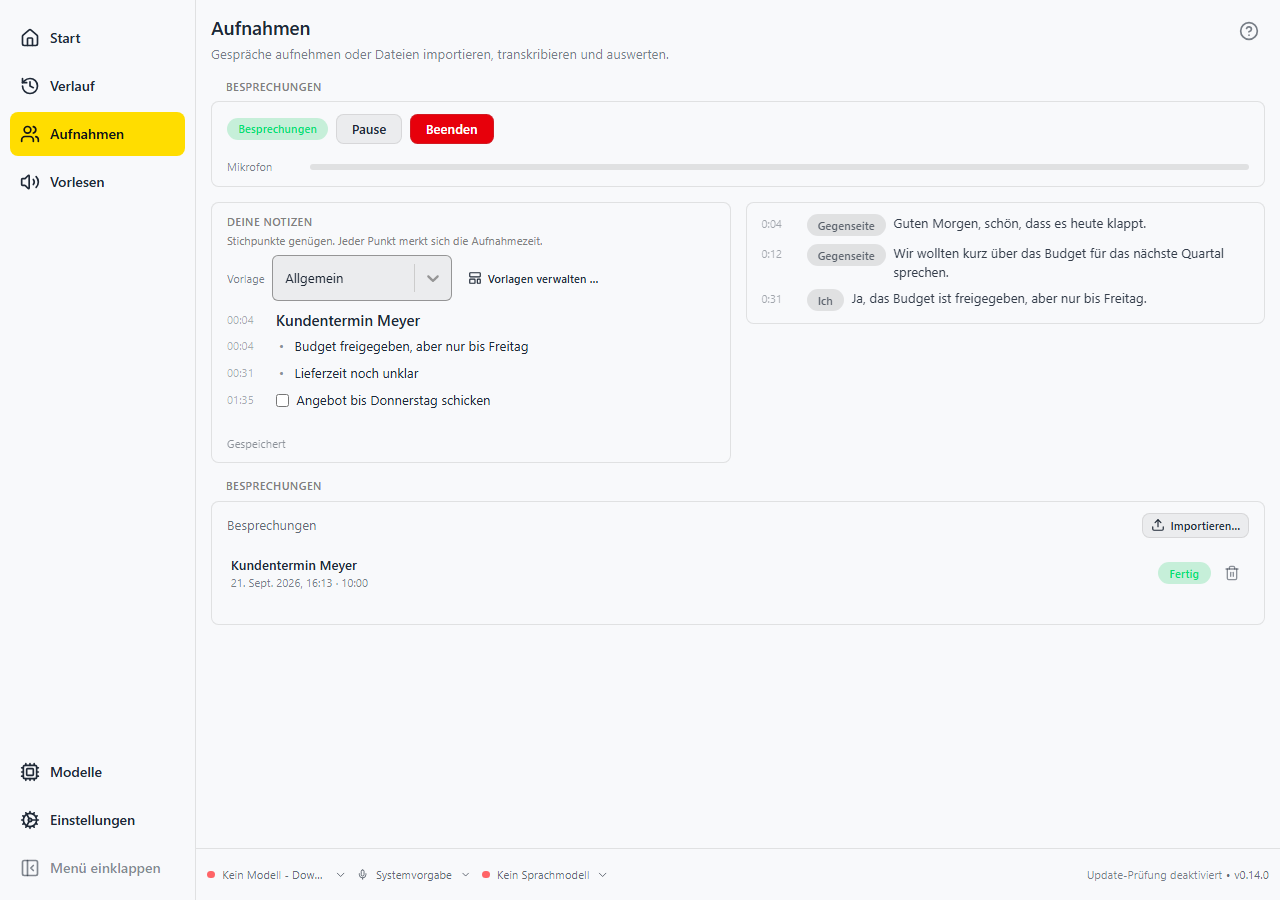
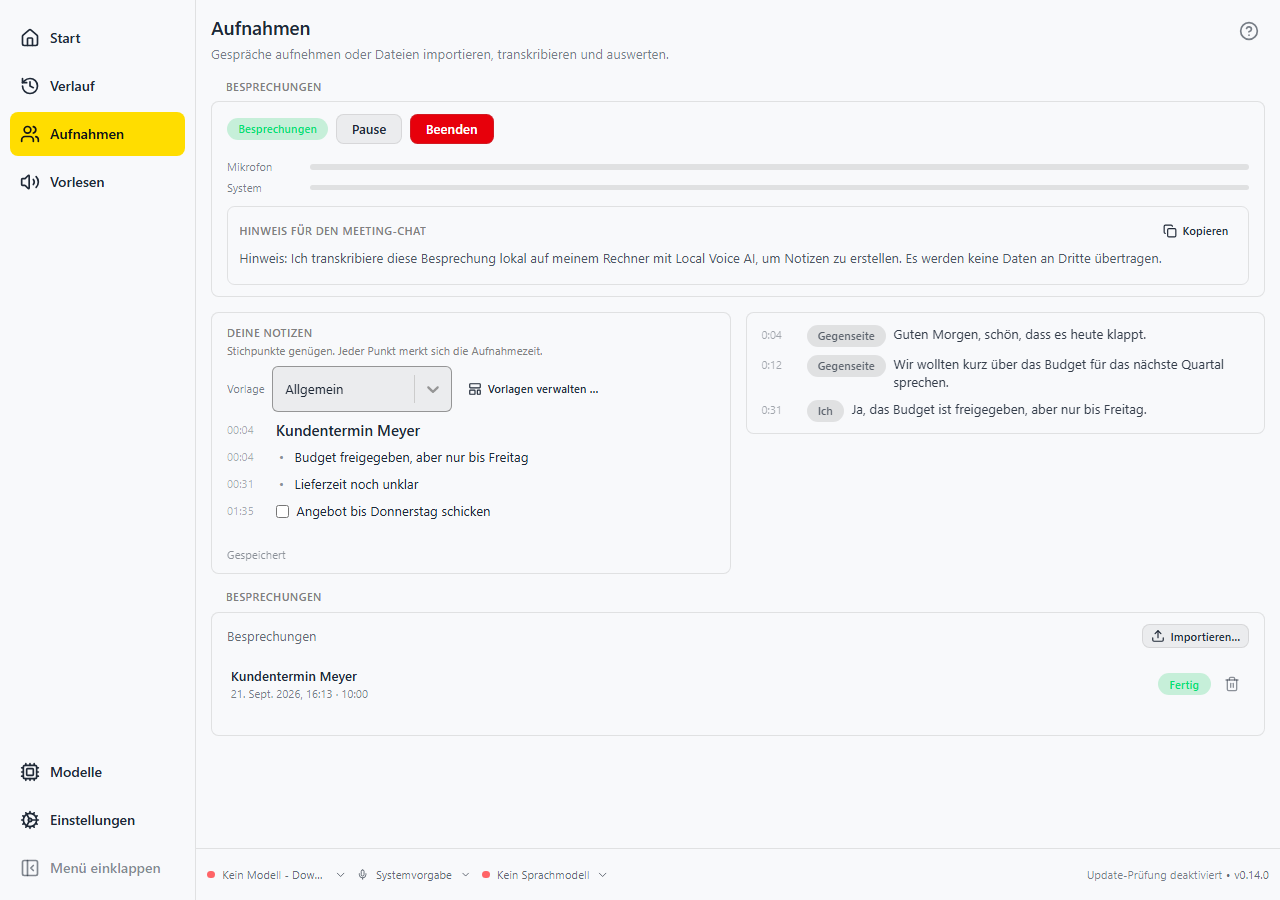
docs(goal): P1f abgenommen, Befund B2

diff --git a/koordination/granola-besprechungen/PAKETE.md b/koordination/granola-besprechungen/PAKETE.md
@@ -15,7 +15,7 @@ Nacharbeit = neues Paket mit Bezug (z. B. P2n), kein Rücksprung. Jede Zeile beg
 | P1c | M1 | Notizblock + Vorlagen-UI, position_ms (B2), Commands (§5, §9) — lv-coder | tsc ok; Playwright meeting-notes.spec.ts -g "Notizblock/Vorlagen" grün; meetings::recorder grün | abgenommen | 4555f85 |
 | P1d | M1 | KI-Notizen-Ansicht: Quelle→Transkript+Audio, Bearbeiten, Anweisung, Checkliste — lv-coder | Playwright -g "KI-Notizen" grün | abgenommen | 02176908 |
 | P1e | M1 | Eval AK3: 3 Fixtures, eval.rs, --eval-notes — lv-coder | Stub-Tests grün; Release-Lauf mit lokalem Modell: user_preserved 1.0, ai_sourced ≥ 0.95 | offen | |
-| P1f | M1 | Einstellungen, Auto-Lauf nach Stopp, Systemton-Default, Hinweistext — lv-coder | `cargo test --lib settings` grün; Playwright -g "Hinweis/Systemton" grün | in_arbeit | |
+| P1f | M1 | Einstellungen, Auto-Lauf nach Stopp, Systemton-Default, Hinweistext — lv-coder | `cargo test --lib settings` grün; Playwright -g "Hinweis/Systemton" grün | abgenommen | d0bc230e |
 | P2a | M2 | DSP-Thread, VAD-Segmentierer (Silero v4), Stille-Gate/Halluzinationsfilter; neues Event TranscriptFinal am Ende von stop() (Entwurf M2 §3.1/§3.4) — lv-coder-xhigh | `cargo test --lib meetings::` grün, ≥ 12 neue Tests; Stille-Fixture per --import-meeting unverändert | abgenommen | 64f363e |
 | P2b1 | M2 | Korpus: FLEURS-de ≥ 220 Sätze + synthetischer Mehrsprecher-Korpus (SAPI, Echo/Überlappung) + Satz-Benchmark über vorhandene CLI → bench.md (Modellwahl) — lv-coder, wt-m2b | `python scripts/bench/make_corpus.py --check` ok; `docs/m2-evidence/bench.md` mit WER je Modell (≥ 220 Sätze) | abgenommen | 44c4bdeb |
 | P2b2 | M2 | Harness --simulate-meeting (replay.rs), m2-bench.ps1 -Quick/-Full, Latenz p95 (AK5) — lv-coder | `m2-bench.ps1 -Quick` → JSON mit latency_p95_ms/wer_live/wer_final; AK5 latency_p95_ms ≤ 5000 | offen | |

diff --git a/koordination/granola-besprechungen/BEFUNDE.md b/koordination/granola-besprechungen/BEFUNDE.md
@@ -7,3 +7,9 @@ eine Zeile `- Status: offen` bzw. `- Status: erledigt (<Paket/Commit>)`. Offene 
 - Beobachtet (240 Saetze, 5206 Woerter, `docs/m2-evidence/bench.md` auf feat/granola-p2b1): Parakeet v3 ONNX int8 (heutiges Live-Modell der App) 7,86 % WER; Parakeet v3 GGUF Q8 5,55 % (CPU, RTF 11) bzw. 5,51 % (CUDA); Whisper-turbo Q8 CPU 8,87 %, CUDA 5,61 %; Whisper large-v3 Q5 CUDA 4,65 %; Qwen3-ASR 1.7B Q5 CPU 4,17 % (RTF 4,3); Qwen3-ASR 0.6B 7,16 %.
 - Konsequenz: Live-Modell fuer Besprechungen = Parakeet v3 GGUF Q8 (nicht ONNX int8) -> neues Paket P2g (Katalog/Default, Latenz pruefen). Enddurchlauf `auto`: GPU -> Whisper large-v3 oder Qwen3-ASR 1.7B (nach P2f messen), CPU -> Qwen3-ASR 1.7B nur mit Hinweis auf Dauer (60 min ~14 min, QG3 nur mit GPU), sonst Live=Ende.
 - Status: offen
+
+## B2 — P1f: Vorlagenliste bricht fremde Seiten bei null-Antwort (29.09. 13:40)
+- Beobachtet: volle Playwright-Suite nach P1f 17 rot (workspace, voices, llm-*): TypeError "reading 'map'" in MeetingNotesSettings, weil die Attrappe dort null liefert.
+- Beleg: npx playwright test -> 17 failed; nach Fix 118 passed.
+- Konsequenz: `result.data ?? []` in MeetingNotesSettings.tsx und TemplatePicker.tsx (im P1f-Commit).
+- Status: erledigt (P1f, d0bc230e)

diff --git a/koordination/granola-besprechungen/GOAL.md b/koordination/granola-besprechungen/GOAL.md
@@ -9,7 +9,7 @@ repo: MrP42/local-voice-ai
 branch: feat/granola-besprechungen
 iteration: 1
 erstellt: 2026-09-29
-aktualisiert: 2026-09-29T16:29
+aktualisiert: 2026-09-29T16:53
 ---
 
 # Goal: Besprechungen auf Granola-Niveau - lokal, ohne Abo
@@ -105,6 +105,7 @@ Local Voice AI deckt jede Kernfunktion von Granola für Besprechungen ab (Aufnah
 ## Evidence
 - 2026-09-29T11:13 AK1 erfüllt — Recherche-Dateien + FEATURE-MATRIX.md in 45f3a3b, Artefakt https://claude.ai/artifact/JL7yCpwFDTcrvAm9Xj2Dwo (Kopie 91217fa), Issue #59
 - 2026-09-29T11:41 QG1 widerrufen — frühere Belege gelten nicht mehr
+- 2026-09-29T16:53 QG2 widerrufen — frühere Belege gelten nicht mehr
 
 ## Blocker
 - B1 [gelöst] [P2f] 2026-09-29T11:28 Ursache: Lokaler Vulkan-Build braucht das LunarG-SDK (Installation mit Admin-Rechten) und aendert den Release-Build (E5) · Owner: Patrick · entsperrt, wenn: Patrick gibt E5 frei (SDK installiert oder CUDA-Weg gewaehlt) oder lehnt ab (dann P2f abgebrochen, CPU-Pfad) · nächste Prüfung: beim nächsten Sessionstart · gelöst 2026-09-29T12:10: Patrick 29.09.: Vulkan ja, Claude installiert das SDK (winget KhronosGroup.VulkanSDK)
